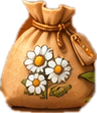
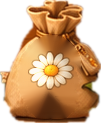
Nursery: picture as supplied, only the bag flowers replaced; nothing disappears on purchase
Claude-Session: https://claude.ai/code/session_01KbwSo6yL3mitC5MkkWGPtA

diff --git a/src/screens/NurseryScreen.js b/src/screens/NurseryScreen.js
@@ -1,7 +1,7 @@
 import React, { useState } from 'react';
 import { View, Text, Image, ScrollView, PanResponder, TouchableOpacity, StyleSheet, Platform } from 'react-native';
 import { useGame } from '../context/GameContext';
-import { NURSERY_BG, NURSERY_BARE, SEED_IMAGES, UI_IMAGES, PPOT_META, PPOT_IDS, PPLANT_IMAGES, HPOT_META, HPOT_ORDER, CAN_IMAGES, SET_UI } from '../engine/assets';
+import { NURSERY_BG, SEED_IMAGES, UI_IMAGES, PPOT_META, PPOT_IDS, PPLANT_IMAGES, HPOT_META, HPOT_ORDER, CAN_IMAGES, SET_UI } from '../engine/assets';
 import { POTTED_FLOWERS, HANGING_PLANTS, seedType, FLOWER_GROWTH, formatDuration, HPOT_INFO, PPOT_PRICE, CAN_INFO } from '../constants/gameData';
 import InventoryOverlay from '../components/InventoryOverlay';
 import ScreenHud from '../components/ScreenHud';
@@ -144,17 +144,18 @@ export default function NurseryScreen({ navigation }) {
   const free = INVENTORY_CAP - (state.inventory?.length ?? 0);
   const total = basket.reduce((n, id) => n + describe(id).price, 0);
 
-  // a painted pot / hanging pot is gone from the shelf once you own it or have put it on the counter
-  const slotGone = (id) => { const [kind, key] = id.split(':'); return basket.includes(id) || (kind === 'p' ? ownedPPots.includes(Number(key)) : ownedHPots.includes(key)); };
+  // the painted pots stay where they are; you just cannot buy one you already own
+  const owns = (id) => { const [kind, key] = id.split(':'); return kind === 'p' ? ownedPPots.includes(Number(key)) : kind === 'h' ? ownedHPots.includes(key) : kind === 'c' ? ownedCans.includes(key) : false; };
 
   const dropOnCounter = (id, p) => {
     if (p[0] < PAY_X || basket.includes(id)) return;
+    if (owns(id)) { notify({ title: 'You already have this one', subtitle: 'Pick another.' }); return; }
     const seeds = basket.filter((b) => b.startsWith('s:')).length + (id.startsWith('s:') ? 1 : 0);
     if (seeds > free) { notify({ icon: UI_IMAGES.inventorybtn, title: 'Bag is full', subtitle: 'Plant some seeds to make room.' }); return; }
     if (basket.length >= MAX_BASKET) { notify({ title: 'The counter is full', subtitle: 'Pay for these first.' }); return; }
     setBasket((b) => [...b, id]);
   };
-  const tellAbout = (id) => { const d = describe(id); notify({ icon: d.src, title: d.name, subtitle: `${d.price} coins. Drag it next to the register to buy.` }); };
+  const tellAbout = (id) => { const d = describe(id); if (owns(id)) { notify({ icon: d.src, title: d.name, subtitle: 'You already have this one.' }); return; } notify({ icon: d.src, title: d.name, subtitle: `${d.price} coins. Drag it next to the register to buy.` }); };
 
   const checkout = () => {
     if (basket.length === 0) { notify({ icon: UI_IMAGES.goldcoins, title: 'The counter is empty', subtitle: 'Drag seed bags next to the register.' }); return; }
@@ -178,10 +179,9 @@ export default function NurseryScreen({ navigation }) {
   const boxItem = (id, box, extra = {}) => ({ id, box, at: [(box[0] + box[2]) / 2, box[3]], ...extra });
   const onShelf = [
     ...COUNTER_SEEDS.map((kk, n) => boxItem('s:' + kk, SEED_BOX(n))),
-    ...POT_SLOTS.filter((sl) => !slotGone(sl.id)).map((sl) => boxItem(sl.id, sl.box)),
-    ...HANG_SLOTS.filter((sl) => !slotGone(sl.id)).map((sl) => boxItem(sl.id, sl.box)),
+    ...POT_SLOTS.map((sl) => boxItem(sl.id, sl.box)),
+    ...HANG_SLOTS.map((sl) => boxItem(sl.id, sl.box)),
   ].map((e) => (lay[e.id] ? { ...e, at: [lay[e.id].x, lay[e.id].y] } : e));
-  const goneSlots = [...POT_SLOTS, ...HANG_SLOTS].filter((sl) => slotGone(sl.id));
   const showCan = !(ownedCans.includes('red') || basket.includes('c:red'));
   // the POTS panel also sells everything (and the seeds that are not on the counter)
   const addToCounter = (id) => {
@@ -202,13 +202,6 @@ export default function NurseryScreen({ navigation }) {
 
       {sw > 0 && (
         <>
-          {/* bought pots: show the picture without them through their spot */}
-          {goneSlots.map(({ id, box: [bx0, by0, bx1, by1] }) => (
-            <View key={'gone' + id} pointerEvents="none" style={{ position: 'absolute', left: (bx0 - 10) * k, top: (by0 - 10) * k, width: (bx1 - bx0 + 20) * k, height: (by1 - by0 + 24) * k, overflow: 'hidden', zIndex: 4 }}>
-              <Image source={NURSERY_BARE} style={{ position: 'absolute', left: -(bx0 - 10) * k, top: -(by0 - 10) * k, width: IMG_W * k, height: IMG_H * k }} />
-            </View>
-          ))}
-
           {onShelf.map(({ id, at, box: [bx0, by0, bx1, by1] }) => {
             const d = { ...describe(id), w: bx1 - bx0, h: by1 - by0 };
             return (

diff --git a/src/engine/assets.js b/src/engine/assets.js
@@ -353,8 +353,7 @@ Object.assign(TRADE_IMAGES, {
 });
 
 // ─── Nursery background ───────────────────────────────────────────────────────
-export const NURSERY_BG = require('../../assets/shop/nursery_v6.png');
-export const NURSERY_BARE = require('../../assets/shop/nursery_bare.png');   // the same shop with no pots, hanging pots or flowers on the shelves
+export const NURSERY_BG = require('../../assets/shop/nursery_v10.png');
 
 // ─── Inventory grid background (7 cols × 5 rows, 1226×912) ────────────────────
 export const INVENTORY_BG = require('../../assets/ui_comps/inventory.png');
